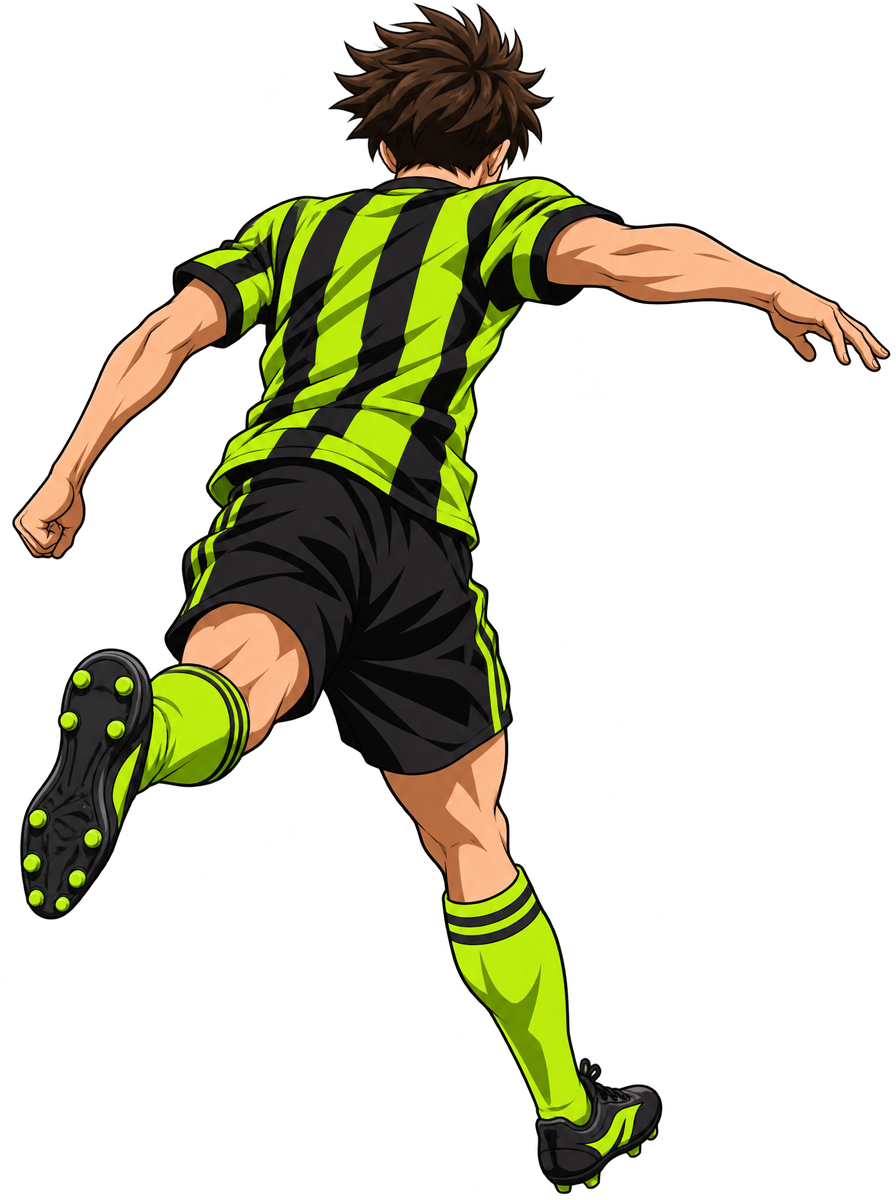
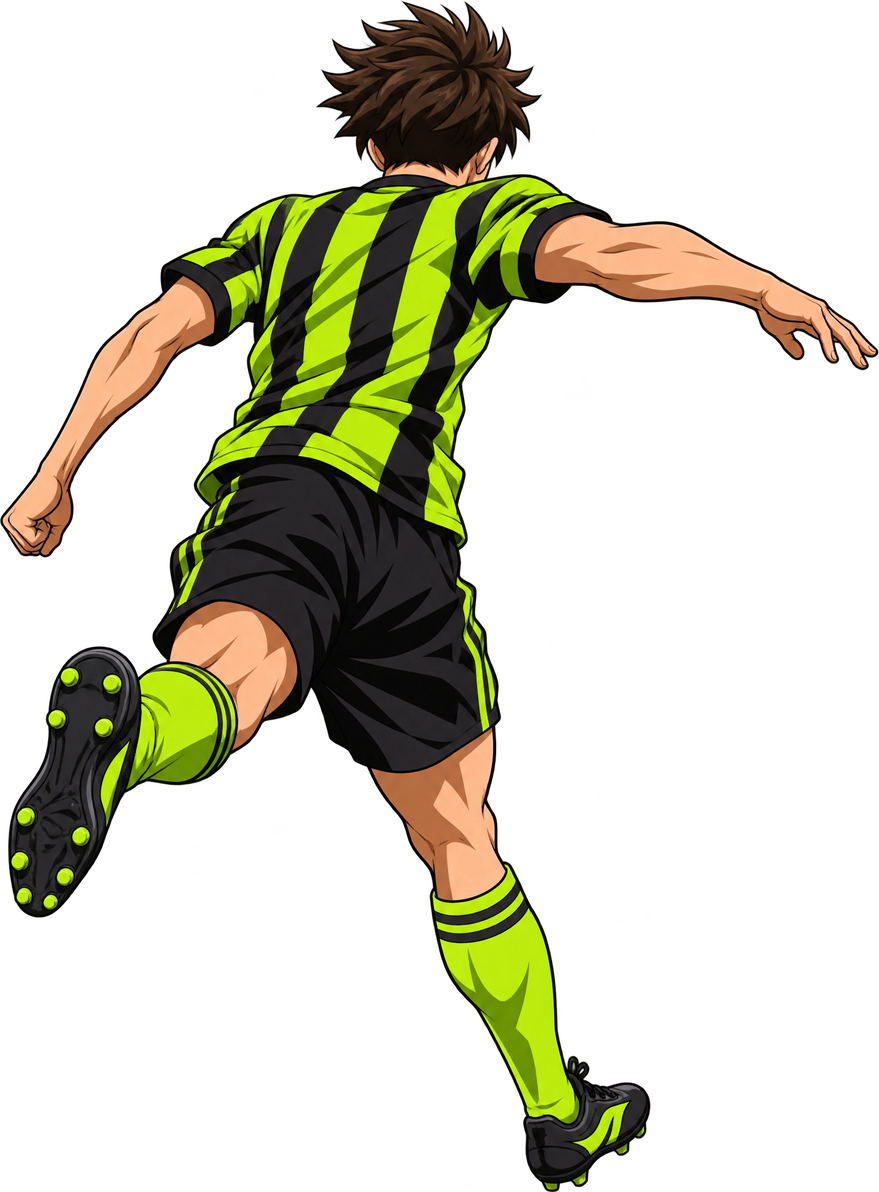
Penalty game: center sprites on the shot axis
Crop shooter, keeper and dive sprites to their visible content so the
goal, penalty spot, shooter and keeper share one centre line. Dive
targets are symmetric around the centre.

Claude-Session: https://claude.ai/code/session_01AQ7oTwvD4DwSNWQfH2t8Mw

diff --git a/lib/features/gamification/ui/penalty_play_screen.dart b/lib/features/gamification/ui/penalty_play_screen.dart
@@ -38,10 +38,10 @@ class _PenaltyPlayScreenState extends State<PenaltyPlayScreen>
   // Σταθερές διαστάσεις εικόνων (ύψος → πλάτος αναλογικά).
   static const double _keeperHeight = 170; // keeper.png 896x1200
   static const double _keeperWidth = 127;
-  static const double _diveHeight = 150; // keeper_dive_*.png 4:3
-  static const double _diveWidth = 200;
-  static const double _shooterHeight = 180; // shooter_*.png 3:4
-  static const double _shooterWidth = 135;
+  static const double _diveWidth = 300; // keeper_dive_*.png (ύψος από την αναλογία)
+  static const double _diveHalfHeight = 56;
+  static const double _shooterHeight = 180; // shooter_*.png (περικομμένο)
+  static const double _shooterWidth = 133;
 
   // Στόχοι μέσα στο τέρμα, συμμετρικοί γύρω από το κέντρο.
   static const List<double> _targetX = [1 / 6, 0.5, 5 / 6];
@@ -454,12 +454,12 @@ class _PenaltyPlayScreenState extends State<PenaltyPlayScreen>
                   else
                     Positioned(
                       left: keeperPos.dx - _diveWidth / 2,
-                      top: keeperPos.dy - _diveHeight / 2,
+                      top: keeperPos.dy - _diveHalfHeight,
                       child: Image.asset(
                         keep == 0
                             ? 'assets/images/penalty/keeper_dive_left.png'
                             : 'assets/images/penalty/keeper_dive_right.png',
-                        height: _diveHeight,
+                        width: _diveWidth,
                         filterQuality: FilterQuality.high,
                       ),
                     ),
@@ -479,7 +479,7 @@ class _PenaltyPlayScreenState extends State<PenaltyPlayScreen>
                   // Σουτέρ (πίσω από τη μπάλα).
                   Positioned(
                     left: cx - _shooterWidth / 2,
-                    top: _spotY - _shooterHeight + 24,
+                    top: _spotY - _shooterHeight + 6,
                     child: Image.asset(
                       shooterAsset,
                       height: _shooterHeight,
